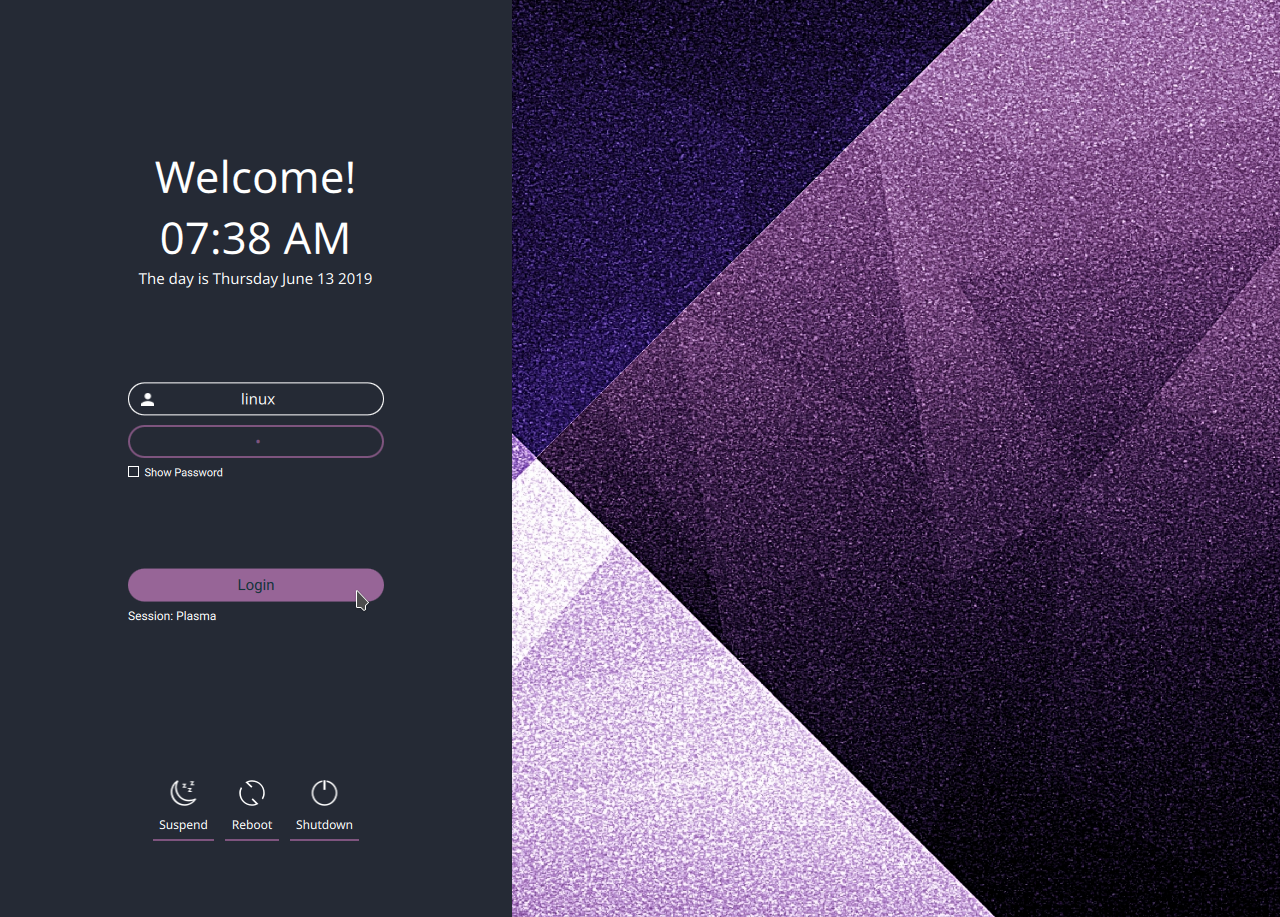
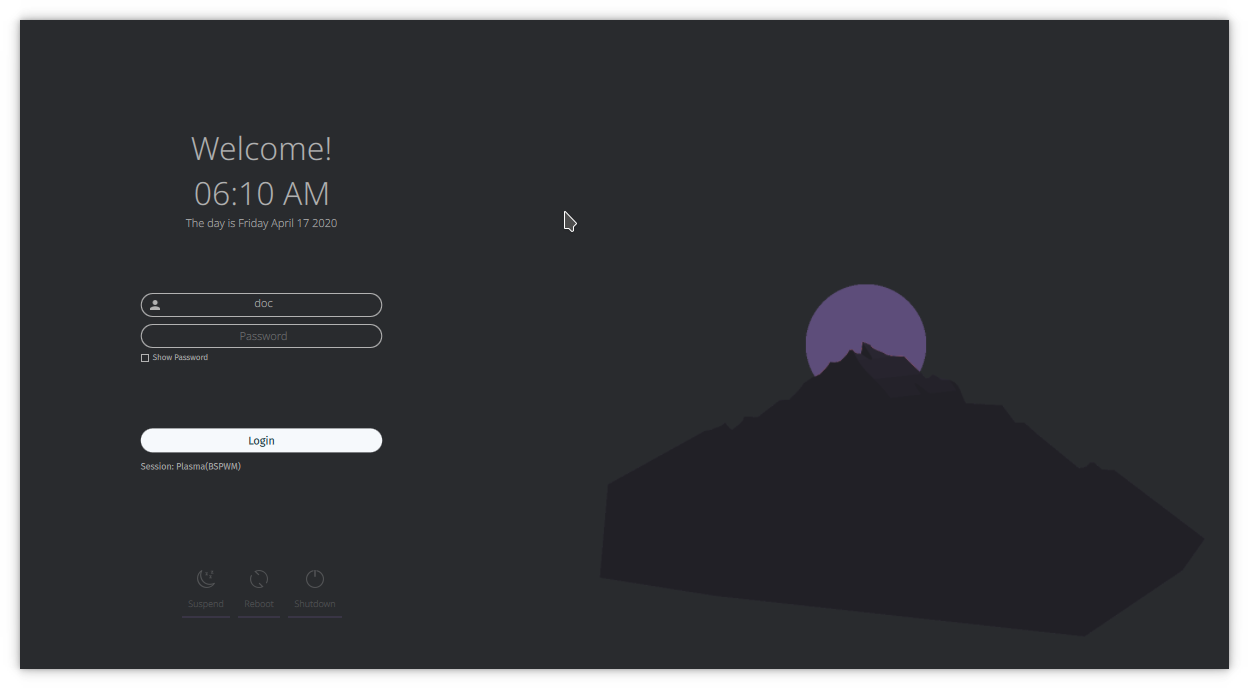
Added preview for sddm theme

diff --git a/README.md b/README.md
@@ -2,6 +2,8 @@
 
 ## Screenshots
 
+![login](sddm/themes/Space/preview.png)
+
 ![startup](screenshots/startup.png)
 
 ![code](screenshots/code.png)
